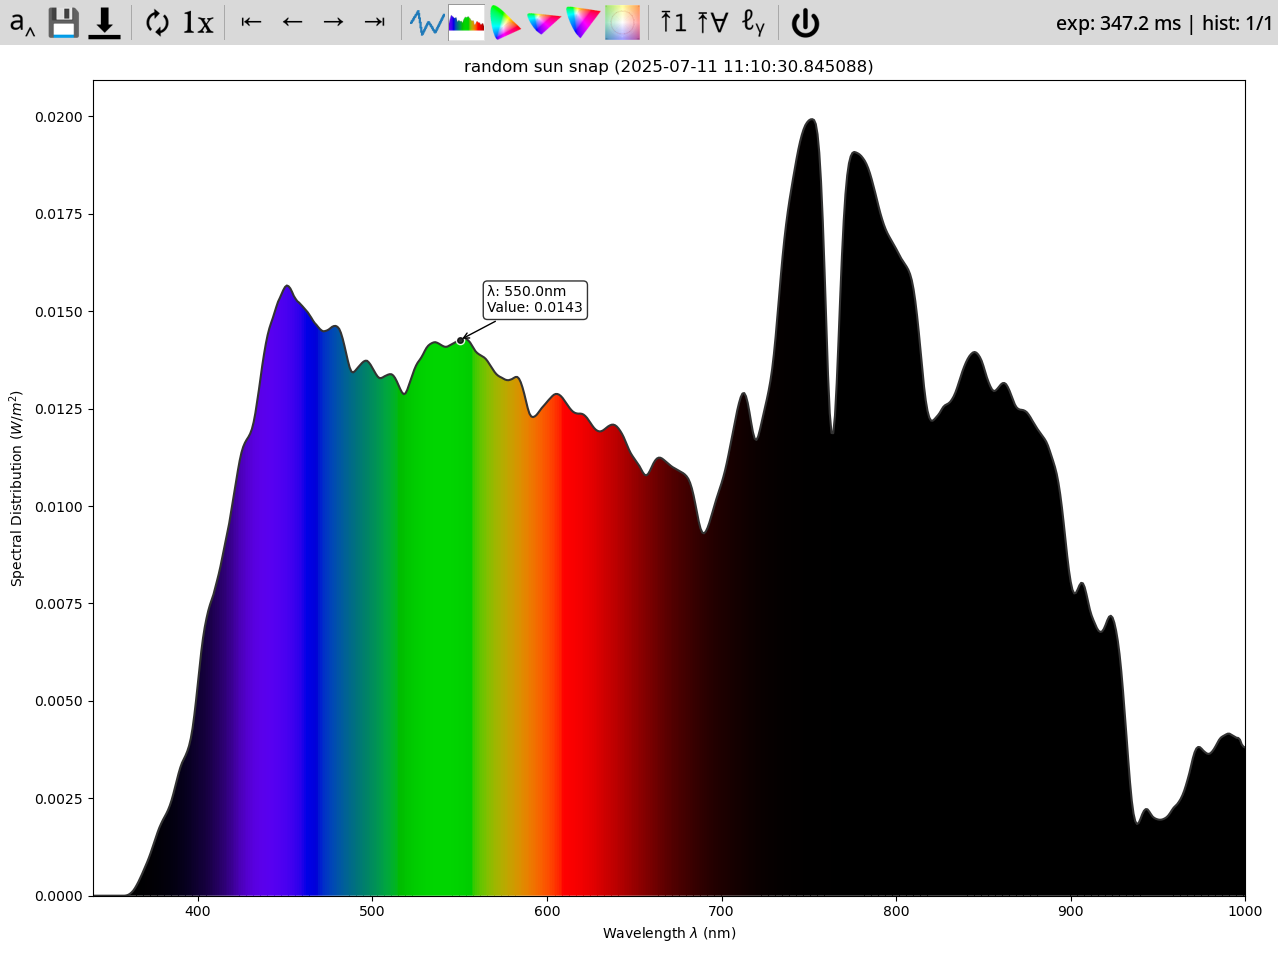
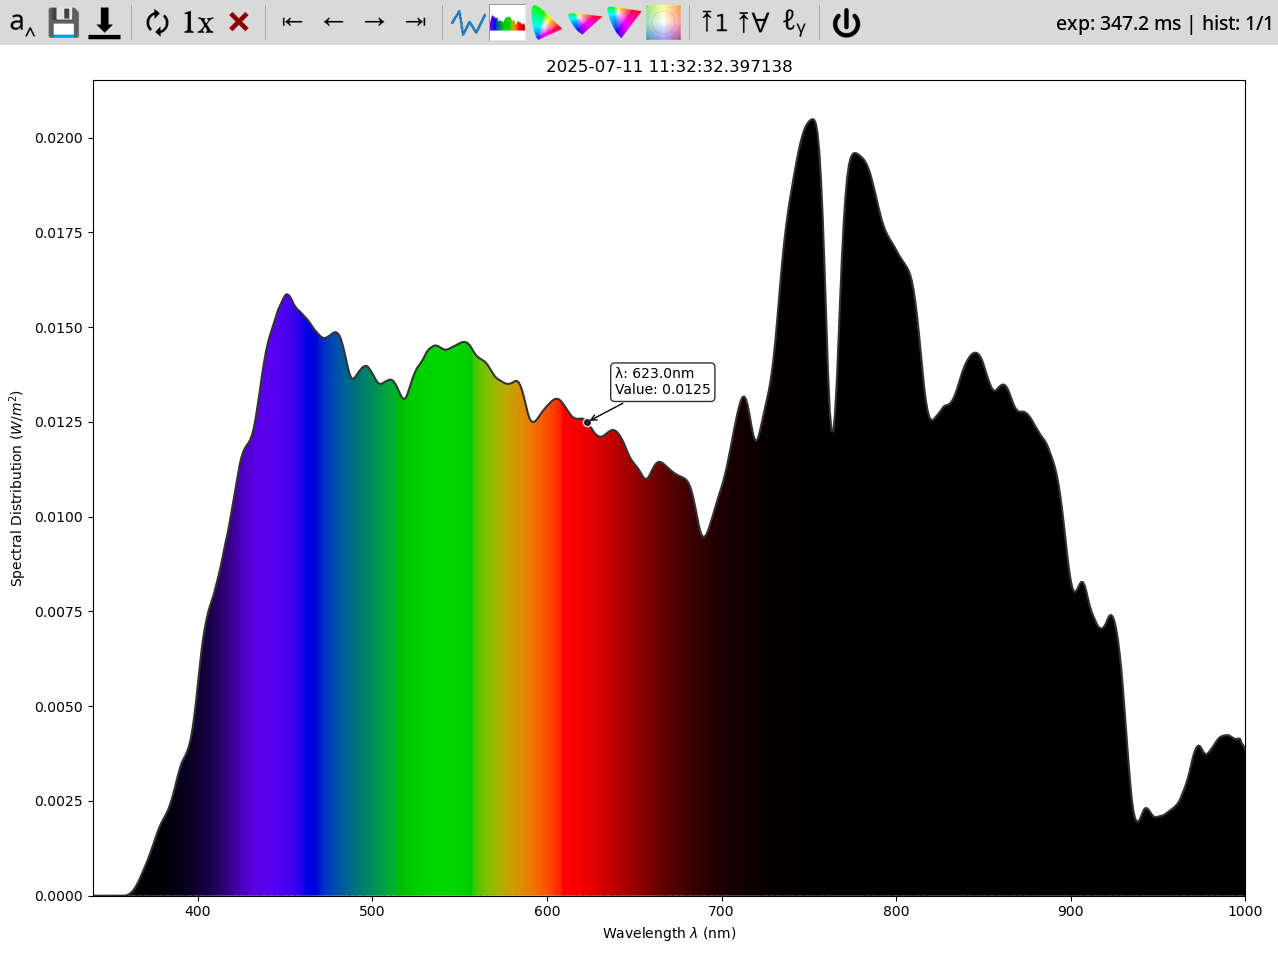
Add remove tool

diff --git a/tobes_ui/plot.py b/tobes_ui/plot.py
@@ -29,7 +29,7 @@ from .types import GraphType, RefreshType
 from .tools import (
     RefreshTool, OneShotTool, HistoryStartTool, HistoryBackTool, HistoryForwardTool,
     HistoryEndTool, GraphSelectTool, FixYRangeGlobalTool, FixYRangeTool, LogYScaleTool,
-    PowerTool, PlotSaveTool, RawSaveTool, NameTool)
+    PowerTool, PlotSaveTool, RawSaveTool, NameTool, RemoveTool)
 
 # pylint: disable=broad-exception-caught
 # pylint: disable=too-many-instance-attributes
@@ -111,6 +111,20 @@ class RefreshableSpectralPlot:
 
         self._history_index = len(self._history) - 1
         self._fixed_y_global_lim = (0, max(self._history_max))
+
+    def remove_current_data(self):
+        """Remove currently displayed data from history and view (if any)"""
+        if not self.data:
+            return
+        self._history.pop(self._history_index)
+        self._history_max.pop(self._history_index)
+        if self._history_index > len(self._history) - 1:
+            self._history_index = len(self._history) - 1
+        if len(self._history_max) > 0:
+            self._fixed_y_global_lim = (0, max(self._history_max))
+        else:
+            self._fixed_y_global_lim = None
+        self.dirty = True
 
     WARNINGS_TO_IGNORE = [
             "Treat the new Tool classes introduced in v1.5 as experimental",
@@ -488,6 +502,7 @@ class RefreshableSpectralPlot:
             tool_mgr.add_tool("raw_save", RawSaveTool, plot=self,
                               file_template=self.file_template)
             tool_mgr.add_tool("name", NameTool, plot=self)
+            tool_mgr.add_tool("remove", RemoveTool, plot=self)
 
 
             self.fig.canvas.manager.toolbar.add_tool(tool_mgr.get_tool("name"), "export")
@@ -496,6 +511,7 @@ class RefreshableSpectralPlot:
             if not self.refresh_type == RefreshType.DISABLED:
                 self.fig.canvas.manager.toolbar.add_tool(tool_mgr.get_tool("refresh"), "refresh")
                 self.fig.canvas.manager.toolbar.add_tool(tool_mgr.get_tool("oneshot"), "refresh")
+            self.fig.canvas.manager.toolbar.add_tool(tool_mgr.get_tool("remove"), "refresh")
 
             self.fig.canvas.manager.toolbar.add_tool(tool_mgr.get_tool("history_start"), "nav")
             self.fig.canvas.manager.toolbar.add_tool(tool_mgr.get_tool("history_back"), "nav")

diff --git a/helpers/create_icons.py b/helpers/create_icons.py
@@ -7,7 +7,7 @@ import os
 
 from PIL import Image, ImageDraw, ImageFont
 
-def create_text_icon(text, font, size, output_path, tunex=0, tuney=0):
+def create_text_icon(text, font, size, output_path, tunex=0, tuney=0, fill='black'):
     """Create icon from text"""
 
     if os.path.isfile(output_path):
@@ -25,7 +25,7 @@ def create_text_icon(text, font, size, output_path, tunex=0, tuney=0):
         font = ImageFont.load_default()
 
     center = (size // 2 + tunex * size, size // 2 + tuney * size)
-    draw.text(center, text, font=font, fill="black", anchor="mm")
+    draw.text(center, text, font=font, fill=fill, anchor="mm")
 
     img.save(output_path)
 
@@ -57,5 +57,9 @@ if __name__ == "__main__":
 
         create_text_icon("a‸", font, 24, "icons/name.png", 0, -0.1)
         create_text_icon("a‸", font, 48, "icons/name_large.png", 0, -0.1)
+
+        font = '/usr/share/fonts/opentype/freefont/FreeSerif.otf'
+        create_text_icon("❌", font, 24, "icons/remove.png", 0, 0, 'darkred')
+        create_text_icon("❌", font, 48, "icons/remove_large.png", 0, 0, 'darkred')
 
     main()

diff --git a/tobes_ui/tools.py b/tobes_ui/tools.py
@@ -320,3 +320,18 @@ class NameTool(ToolBase):
             self.plot.dirty = True
 
         widget.focus_set()
+
+
+class RemoveTool(ToolBase):
+    """Remove the current spectrum data"""
+    description = 'Remove the current spectrum data (key: delete || X)'
+    default_keymap = ['delete', 'x', 'X']
+
+    def __init__(self, *args, plot, **kwargs):
+        self.plot = plot
+        script_dir = os.path.dirname(os.path.abspath(__file__))
+        self.image = os.path.join(script_dir, "../icons/remove")
+        super().__init__(*args, **kwargs)
+
+    def trigger(self, *_args, **_kwargs):
+        self.plot.remove_current_data()

diff --git a/README.md b/README.md
@@ -74,6 +74,7 @@ There are several icons on the toolbar:
 | ![download](icons/raw_save.png) | `D` | Save raw data as json |
 | ![refresh](icons/refresh.png) | `R` | Keep refreshing data |
 | ![oneshot](icons/oneshot.png) | `1`, `O` | One good acquisition |
+| ![remove](icons/remove.png) | `Delete`, `X` | Remove the current spectrum data _(from UI)_ |
 | ![history start](icons/hist_start.png) | `Home`, `H` | Go to start of history |
 | ![history back](icons/hist_back.png) | `←`, `P` | Go to previous sample |
 | ![history forward](icons/hist_forward.png) | `→`, `N` | Go to next sample |
